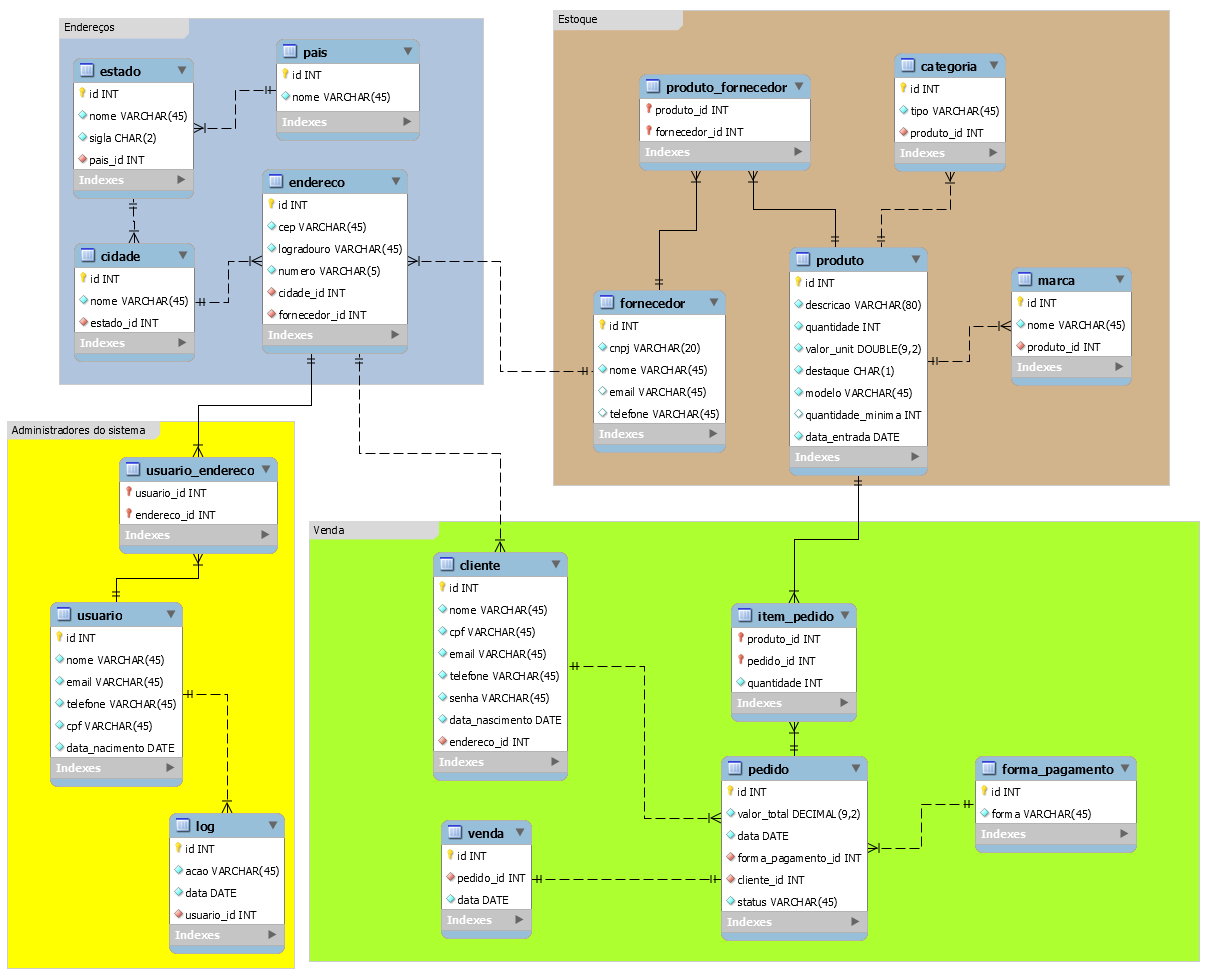
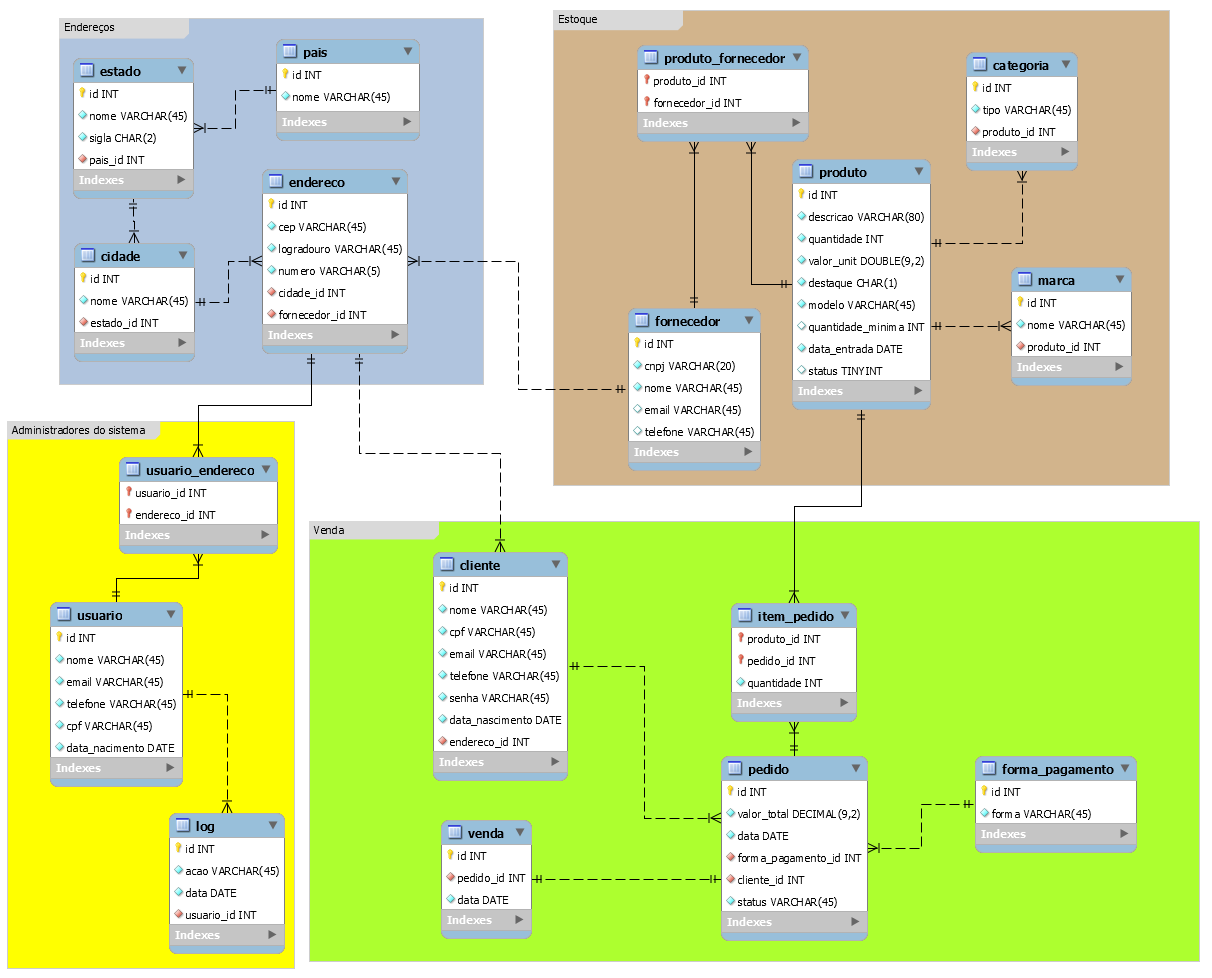
Atualização das permissões em classes entidades (fillable)

Changed region(s): [[0.4884, 0.0307, 0.9158, 0.4908]]

diff --git a/database/migrations/2017_08_26_232348_create_endereco_fornecedors_table.php b/database/migrations/2017_08_26_232348_create_endereco_fornecedors_table.php
@@ -1,0 +1,34 @@
+<?php
+
+use Illuminate\Support\Facades\Schema;
+use Illuminate\Database\Schema\Blueprint;
+use Illuminate\Database\Migrations\Migration;
+
+class CreateEnderecoFornecedorsTable extends Migration {
+
+    /**
+     * Run the migrations.
+     *
+     * @return void
+     */
+    public function up() {
+        Schema::create('endereco_fornecedors', function (Blueprint $table) {
+
+            $table->integer('endereco_id')->unsigned();
+            $table->foreign('endereco_id')->references('id')->on('enderecos');
+            
+            $table->integer('fornecedor_id')->unsigned();
+            $table->foreign('fornecedor_id')->references('id')->on('fornecedors');
+        });
+    }
+
+    /**
+     * Reverse the migrations.
+     *
+     * @return void
+     */
+    public function down() {
+        Schema::dropIfExists('endereco_fornecedors');
+    }
+
+}

diff --git a/app/User.php b/app/User.php
@@ -5,10 +5,10 @@ namespace App;
 use Illuminate\Notifications\Notifiable;
 use Illuminate\Foundation\Auth\User as Authenticatable;
 
-class User extends Authenticatable
-{
-    
+class User extends Authenticatable {
+
     public $timestamps = false;
+
     use Notifiable;
 
     /**
@@ -16,9 +16,7 @@ class User extends Authenticatable
      *
      * @var array
      */
-    protected $fillable = [
-        'nome', 'email', 'password',
-    ];
+    protected $fillable = array('nome', 'cpf', 'email', 'telefone', 'data_nascimento');
 
     /**
      * The attributes that should be hidden for arrays.
@@ -28,4 +26,5 @@ class User extends Authenticatable
     protected $hidden = [
         'password', 'remember_token',
     ];
+
 }

diff --git a/database/migrations/2014_10_12_000000_create_users_table.php b/database/migrations/2014_10_12_000000_create_users_table.php
@@ -20,7 +20,7 @@ class CreateUsersTable extends Migration
             $table->string('email', 45)->unique();
             $table->string('telefone', 15);
             $table->date('data_nascimento');
-            $table->string('password');
+            $table->string('senha');
             $table->rememberToken();
             
         });

diff --git a/app/Produto.php b/app/Produto.php
@@ -4,7 +4,10 @@ namespace App;
 
 use Illuminate\Database\Eloquent\Model;
 
-class Produto extends Model
-{
+class Produto extends Model {
+
     public $timespamps = false;
+    
+    protected $fillable = array('descricao', 'quantidade', 'valor_unit', 'destaque', 'modelo', 'quantidade_minima', 'data_entrada', 'status');
+
 }

diff --git a/app/Cliente.php b/app/Cliente.php
@@ -1,10 +1,14 @@
-<?php
+s<?php
 
 namespace App;
 
 use Illuminate\Database\Eloquent\Model;
 
-class Cliente extends Model
-{
+class Cliente extends Model {
+
     public $timespamps = false;
+    
+    protected $fillable = array('nome', 'cpf', 'email', 'telefone', 'data_nascimento', 'endereco_id');
+    
+
 }

diff --git a/database/migrations/2017_08_18_140913_create_produtos_table.php b/database/migrations/2017_08_18_140913_create_produtos_table.php
@@ -22,6 +22,7 @@ class CreateProdutosTable extends Migration
             $table->string('modelo', 45);
             $table->integer('quantidade_minima')->nullable(true);
             $table->date('data_entrada');
+            $table->boolean("status");
         });
     }
 

diff --git a/app/Endereco_fornecedor.php b/app/Endereco_fornecedor.php
@@ -1,0 +1,13 @@
+<?php
+
+namespace App;
+
+use Illuminate\Database\Eloquent\Model;
+
+class Endereco_fornecedor extends Model {
+
+    public $timestamps = false;
+    
+    protected $fillable = array('endereco_id', 'fornecedor_id');
+
+}

diff --git a/app/Log.php b/app/Log.php
@@ -4,7 +4,10 @@ namespace App;
 
 use Illuminate\Database\Eloquent\Model;
 
-class Log extends Model
-{
+class Log extends Model {
+
     public $timespamps = false;
+    
+    protected $fillable = array('acao', 'data', 'usuario_id');
+
 }

diff --git a/app/Venda.php b/app/Venda.php
@@ -4,7 +4,10 @@ namespace App;
 
 use Illuminate\Database\Eloquent\Model;
 
-class Venda extends Model
-{
+class Venda extends Model {
+
     public $timespamps = false;
+    
+    protected $fillable = array('data', 'pedido_id');
+
 }

diff --git a/app/Pedido.php b/app/Pedido.php
@@ -7,4 +7,6 @@ use Illuminate\Database\Eloquent\Model;
 class Pedido extends Model
 {
     public $timespamps = false;
+    
+    protected $fillable = array('valor_total', 'data', 'status', 'forma_pagamento_id', 'cliente_id');
 }

diff --git a/app/Pais.php b/app/Pais.php
@@ -4,7 +4,9 @@ namespace App;
 
 use Illuminate\Database\Eloquent\Model;
 
-class Pais extends Model
-{
+class Pais extends Model {
+
     public $timestsamps = false;
+
+    protected $fillable = array('nome');
 }

diff --git a/app/Item_pedido.php b/app/Item_pedido.php
@@ -7,4 +7,7 @@ use Illuminate\Database\Eloquent\Model;
 class Item_pedido extends Model
 {
     public $timespamps = false;
+    
+    protected $fillable = array('produto_id', 'pedido_id', 'quantidade');
+    
 }
